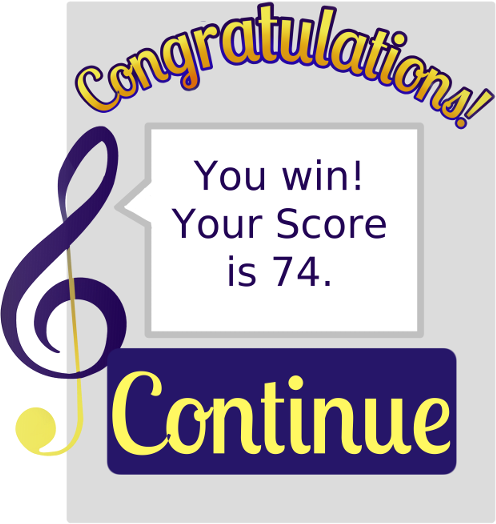
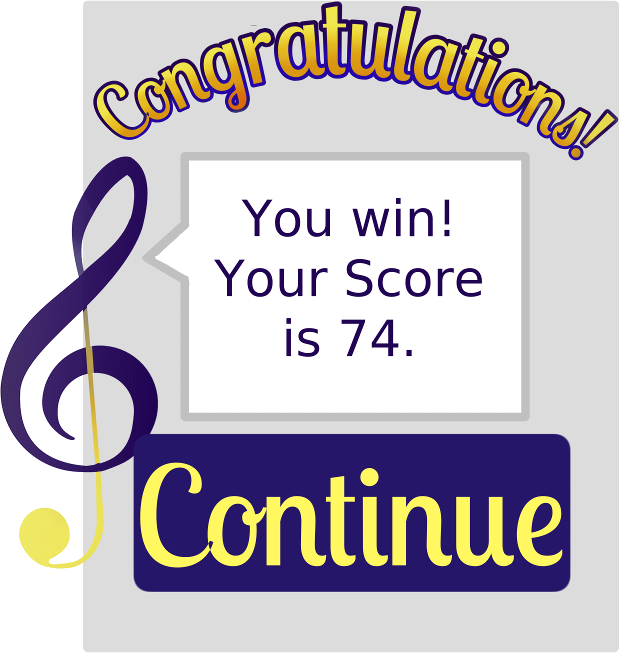
Revert "Resized all images and repositioned all objects"
This reverts commit 5d1588efe3d253fd389332b8e8c61a2efb3545ab.

diff --git a/src/Game.java b/src/Game.java
@@ -9,7 +9,6 @@ import javax.swing.JTextField;
 import java.awt.Dimension;
 import java.awt.Graphics;
 import java.awt.Image;
-import java.awt.Rectangle;
 import java.util.ArrayList;
 import java.util.TimerTask;
 import java.util.Timer;
@@ -19,20 +18,13 @@ public class Game {
 	private ArrayList<Note> Tune;
 	public ArrayList<ImagePanel> TunePanels;
 	public JPanel Notes;
-	public JPanel blueBox;
-	public String currentNote;
-	public boolean stillPlaying;
-	public int points;
-	private int minPoints;
+	public boolean win;
 
 	public Game(int level) {
 		Tune = new ArrayList<Note>();
 		TunePanels = new ArrayList<ImagePanel>();
 		Notes = new JPanel();
-		blueBox = new JPanel();
-		stillPlaying = true;
-		currentNote = "x";
-		points = 0;
+		win = false;
 		if (level == 1) {
 			Tune.add(new Note("b", 1));
 			Tune.add(new Note("a", 1));
@@ -42,7 +34,6 @@ public class Game {
 			Tune.add(new Note("a", 1));
 			Tune.add(new Note("g", 1));
 			Tune.add(new Note("g", 1));
-			minPoints = 30;
 		}
 	};
 
@@ -54,25 +45,20 @@ public class Game {
 		Notes.setOpaque(false);
 		Notes.setLayout(null);
 
-		blueBox.setSize(new Dimension(140, 360));
-		blueBox.setLocation(140, 330);
-		blueBox.setOpaque(false);
-
 		for (int i = 0; i<Tune.size(); i++) {
 			ImagePanel currentNote = Tune.get(i).noteImg;
 			currentNote.setLocation(x, Tune.get(i).height);
 			currentNote.setVisible(true);
 			Notes.add(currentNote);
 			TunePanels.add(currentNote);
-			x += 220;
+			x += 190;
 		}
 		Notes.setLocation(1240,1);
 		for (int i = 0; i<TunePanels.size(); i++) {
 			JPanel p = TunePanels.get(i);
 			p.setLocation(p.getX()+1240, p.getY());
 		}
-		background.getContentPane().add(blueBox, 2);
-		background.getContentPane().add(Notes, 3);
+		background.getContentPane().add(Notes, 2);
 
 	};
 
@@ -91,30 +77,8 @@ public class Game {
 		}
 	}
 
-	public void checkCollision() {
-		Rectangle noteBounds;
-		Rectangle box = blueBox.getBounds();
-		currentNote = "x";
-		for (int i = 0; i<TunePanels.size(); i++) {
-			JPanel p = TunePanels.get(i);
-			noteBounds = p.getBounds();
-			if (noteBounds.intersects(box)) {
-				currentNote = Tune.get(i).tone;
-			}
-		}
-			
-	}
-
-	public void endGame() {
-		stillPlaying = false;
+	public void endGame(boolean won) {
 		System.out.println("end of game");
-		if (points >= minPoints) {
-			System.out.println("you win!");
-			System.out.println(points);
-		} else {
-			System.out.println("you lose!");
-			System.out.println(points);
-		}
 	}
 
 	private class EndGameTimerTask extends TimerTask {
@@ -125,7 +89,7 @@ public class Game {
 
 		@Override
 		public void run(){
-			endGame();
+			endGame(win);
 			endThis.cancel();
 		}
 	}
@@ -136,7 +100,6 @@ public class Game {
 		@Override
 		public void run(){
 			moveNotes();
-			checkCollision();
 		}
 	}
 	
